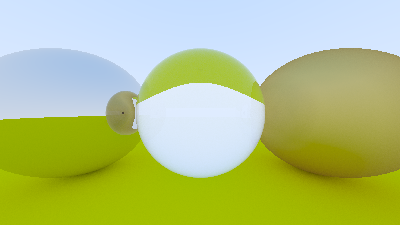
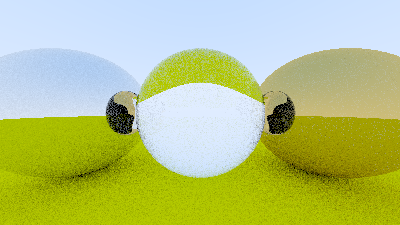
minor fixes

diff --git a/Path tracer/src/Geometry.h b/Path tracer/src/Geometry.h
@@ -1,5 +1,6 @@
 #pragma once
 #include <glm/glm.hpp>
+#include <glm/gtx/compatibility.hpp>
 #include <glm/gtc/matrix_transform.hpp>
 #include <glm/gtc/type_ptr.hpp>
 #include <memory>
@@ -13,7 +14,7 @@ struct Ray
 
 inline float RandomValue()
 {
-    static std::uniform_real_distribution<float> distribution(0.0, 1.0);
+    static std::uniform_real_distribution<float> distribution(0.f, 1.f);
     static std::mt19937 generator;
     return distribution(generator);
 }
@@ -109,8 +110,7 @@ struct Lambertian : public Material
     Lambertian(glm::vec3 a) : albedo(a) {}
     bool scatter(const Ray& ray, const HitRecord& rec, glm::vec3& attenuation, Ray& scattered) const override 
     {
-        auto scatter_direction = rec.normal + RandomUnitVector();
-        scattered = Ray(rec.p, scatter_direction);
+        scattered = Ray(rec.p, glm::normalize(rec.normal + RandomUnitVector()));
         attenuation = albedo;
         return true;
     }
@@ -120,17 +120,18 @@ struct Lambertian : public Material
 
 struct Metal : public Material 
 {
-    Metal(glm::vec3 a, float r) : albedo(a), roughness(r) {}
+    Metal(glm::vec3 a, float r, float sp) : albedo(a), roughness(r), specularProbability(sp) {}
     bool scatter(const Ray& ray, const HitRecord& rec, glm::vec3& attenuation, Ray& scattered) const override 
     {
-        glm::vec3 reflected = glm::reflect(ray.Direction, rec.normal);
-        scattered = Ray(rec.p, reflected + roughness * RandomUnitVector());
-        attenuation = albedo;
+        bool isSpecularBounce = specularProbability >= RandomValue();
+        scattered = Ray(rec.p, glm::normalize(glm::reflect(ray.Direction, rec.normal) + (roughness * isSpecularBounce) * RandomUnitVector()));
+        attenuation = glm::lerp(albedo, glm::vec3(1.f), (float)isSpecularBounce);
         return true;
     }
 
     glm::vec3 albedo;
     float roughness;
+    float specularProbability;
 };
 
 float reflectance(float cosine, float ref_idx) // Use Schlick's approximation for reflectance.
@@ -161,7 +162,7 @@ struct Dielectric : public Material
         else
             direction = glm::refract(ray.Direction, rec.normal, refraction_ratio);
 
-        scattered = Ray(rec.p, direction);
+        scattered = Ray(rec.p, glm::normalize(direction));
         return true;
     }
 

diff --git a/Path tracer/src/Scene.h b/Path tracer/src/Scene.h
@@ -28,8 +28,8 @@ struct Camera
 struct Scene
 {
     Camera camera;
-    uint32_t Samples = 500;
-    uint32_t Depth = 10;
+    uint32_t Samples = 10;
+    uint32_t Depth = 5;
 
     std::vector<Sphere> Spheres;
 
@@ -37,8 +37,8 @@ struct Scene
     {
         auto Ground = std::make_shared<Lambertian>(glm::vec3(0.8, 0.8, 0.0));
         auto Center = std::make_shared<Lambertian>(glm::vec3(0.7, 0.3, 0.3));
-        auto Left = std::make_shared<Metal>(glm::vec3(0.8, 0.8, 0.8), 0.f);
-        auto Right = std::make_shared<Metal>(glm::vec3(0.8, 0.6, 0.2), 0.75f);
+        auto Left = std::make_shared<Metal>(glm::vec3(0.8, 0.8, 0.8), 0.f, 0.4f);
+        auto Right = std::make_shared<Metal>(glm::vec3(0.8, 0.6, 0.2), 0.75f, 0.02f);
 
 
         auto glass = std::make_shared<Dielectric>(1.5f);
@@ -56,14 +56,14 @@ struct Scene
     {
         HitRecord temp_rec;
         bool hit_anything = false;
-        float closest_so_far = 150.f;
+        float t = 150.f;
 
         for (const auto& object : Spheres)
         {
-            if (object.Intersect(ray, 0.001f, closest_so_far, temp_rec))
+            if (object.Intersect(ray, 0.001f, t, temp_rec))
             {
                 hit_anything = true;
-                closest_so_far = temp_rec.t;
+                t = temp_rec.t;
                 rec = temp_rec;
             }
         }
@@ -115,7 +115,7 @@ struct Scene
                 coord.y = 1.f - coord.y;
                 coord = coord * 2.f - 1.f; // -1 -> 1
                 glm::vec4 target = camera.InverseProjection * glm::vec4(coord.x, coord.y, 1, 1);
-                glm::vec3 rayDirection = glm::vec3(camera.View * glm::vec4(glm::normalize(glm::vec3(target) / target.w), 0));
+                glm::vec3 rayDirection = glm::vec3(camera.View * glm::vec4(glm::normalize(glm::vec3(target) / target.w), 0.f));
 
                 glm::vec3 result;
 

diff --git a/Path tracer/src/main.cpp b/Path tracer/src/main.cpp
@@ -4,6 +4,7 @@
 #pragma warning( disable : 4702) // Disable unreachable code
 #define GLFW_INCLUDE_NONE
 //#define GLM_FORCE_PURE
+#define GLM_ENABLE_EXPERIMENTAL
 #define GLM_FORCE_CTOR_INIT
 #define GLM_FORCE_SILENT_WARNINGS
 #include "Scene.h"
